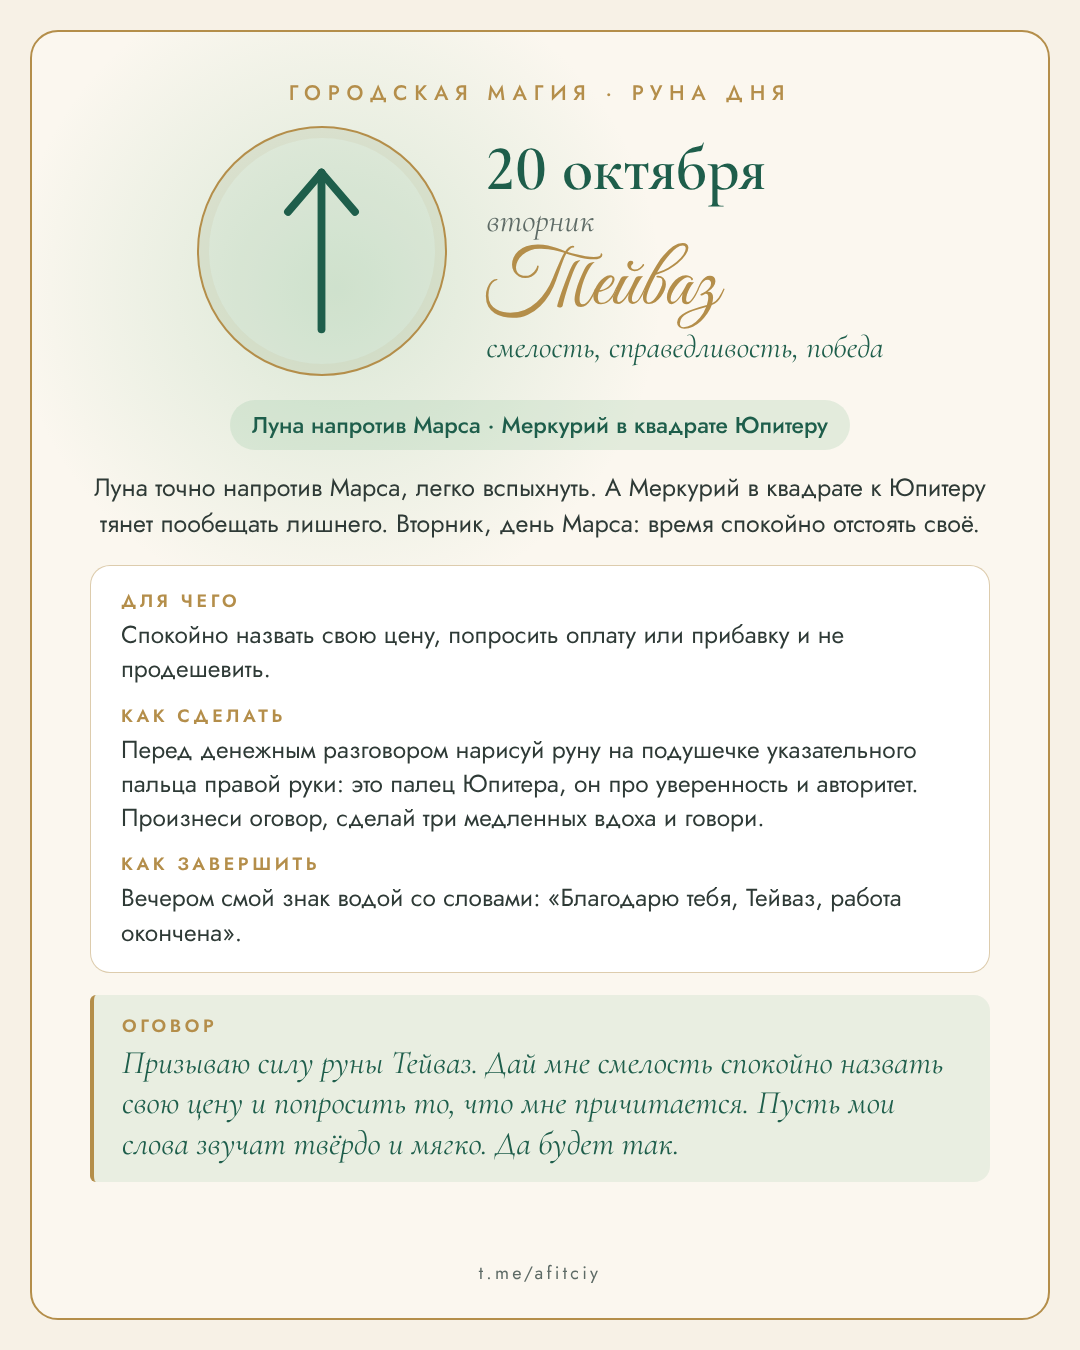
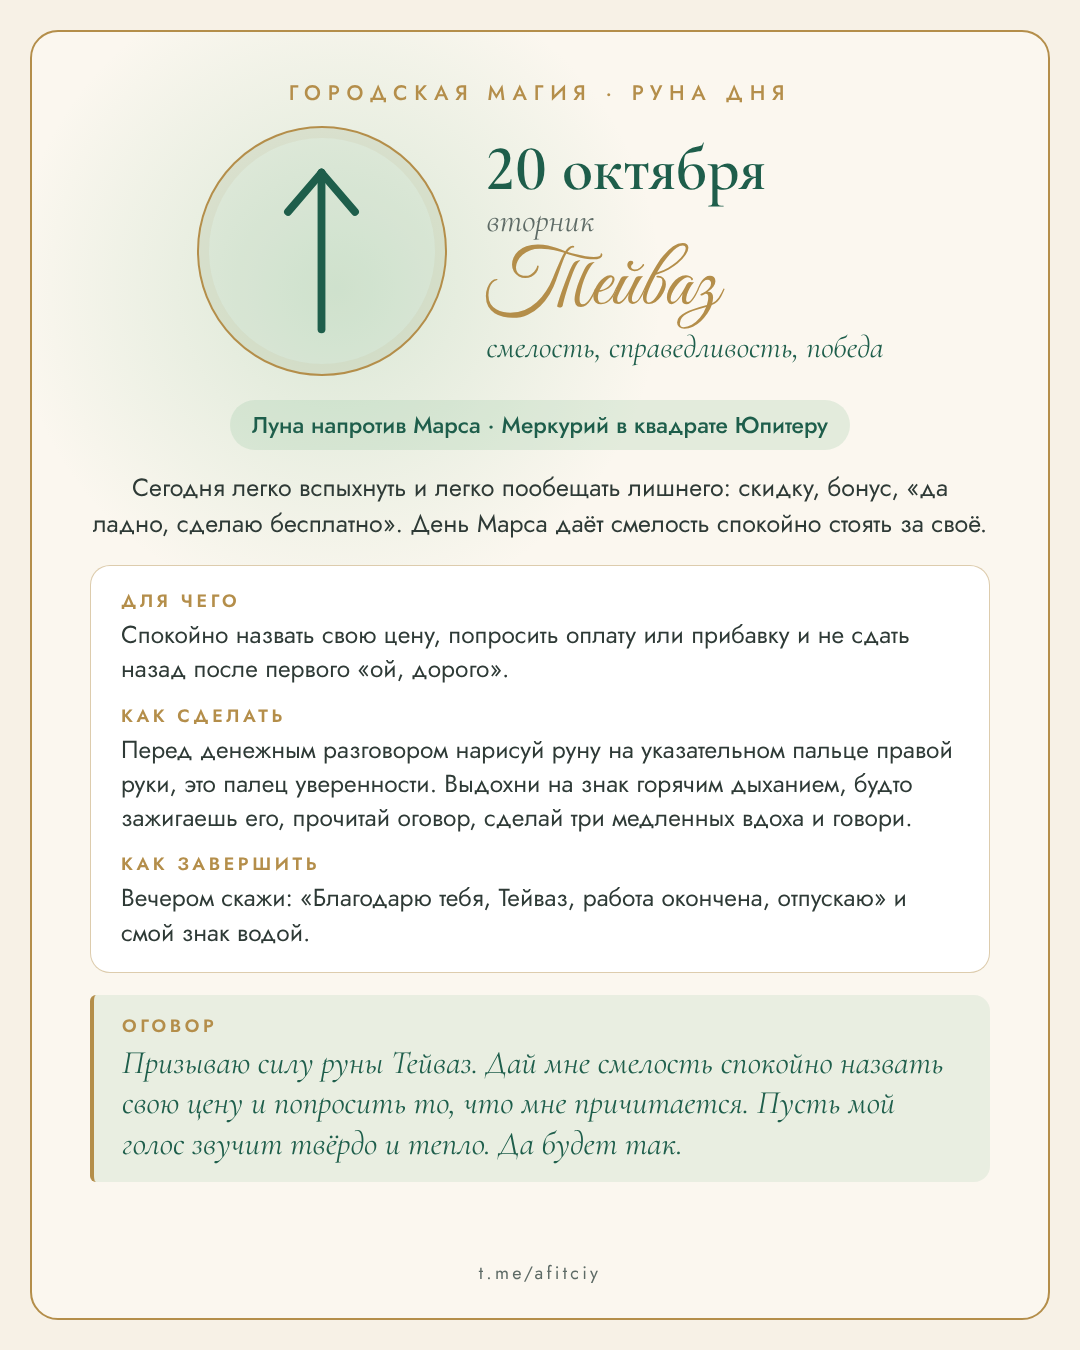
Знак дня 19–25 октября: живой язык, активация дыханием, деактивация с отпусканием
Claude-Session: https://claude.ai/code/session_01AaHL27jWs85Q3tcxhpnW6r

diff --git a/daily/WEEKLY.md b/daily/WEEKLY.md
@@ -30,8 +30,9 @@ fehu, uruz, ansuz, kenaz, gebo, wunjo, jera, sowilo, teiwaz, berkana, laguz, ing
   безымянный Солнце (сияние, привлекательность, известность), мизинец Меркурий (слово, торговля, деньги).
   Левая рука принимает (притянуть к себе), правая отдаёт и действует. Ещё: запястье, над стаканом воды (потом выпить),
   листочек в кошельке, над дверью подсоленной водой. Не рисовать на купюрах.
+- **Активация дыханием обязательна**: нарисовала, подыши на знак тёплым дыханием (листочек, воду), и только потом оговор.
 - **Оговор обязателен**, руна без оговора не работает. Формула: «Призываю силу руны …. [для чего, конкретно]. Да будет так.»
-- **Как завершить**: деактивация. На теле смыть вечером водой со словами «Благодарю тебя, …, работа окончена».
+- **Как завершить**: деактивация с благодарностью и отпусканием. На теле вечером сказать «Благодарю тебя, …, работа окончена, отпускаю» и смыть водой.
   Листочек сжечь, вода выпивается до дна, знак на двери протереть через неделю. Всегда с благодарностью.
 
 ## Голос Елены (обязательно)
@@ -40,6 +41,10 @@ fehu, uruz, ansuz, kenaz, gebo, wunjo, jera, sowilo, teiwaz, berkana, laguz, ing
 - Никаких гарантий и обещаний результата. Не продавать через страх и боль. Без мистической жути.
 - Не сравнивать себя с другими, не говорить плохо о коллегах, без религиозных формул.
 - Не приписывать Елене привычек, которых у неё нет. Без хвастовства доходами.
+- Живой язык, без канцелярита и ИИ-оборотов («произнеси», «нанеси», «подушечка пальца», «ведает»). Без «не X, а Y» и сравнений.
+- В «about» и подписях астрологию переводить на жизнь: что человек почувствует сегодня, а не термины ради терминов.
+- Подпись начинать с узнаваемой ситуации или вопроса, не с одинакового «Доброе утро» каждый день. Объяснять, какая польза от практики, чтобы захотелось повторить.
+- Призыв через кодовое слово в личку («пиши КАНАЛ», «ЧАРЫ»), как в её постах.
 - Её фразы можно использовать изредка: «И именно поэтому…», «Тот самый…», «Хочется движения…», «У кого также?».
 - В 2–3 подписях из 7 мягкий призыв: Чарование, работа с денежным каналом, диагностика, сессии,
   «Сила твоей свечи», «Золотой Телец». Цены и прайс: https://emokrova716-web.github.io/afitciya_prais/
